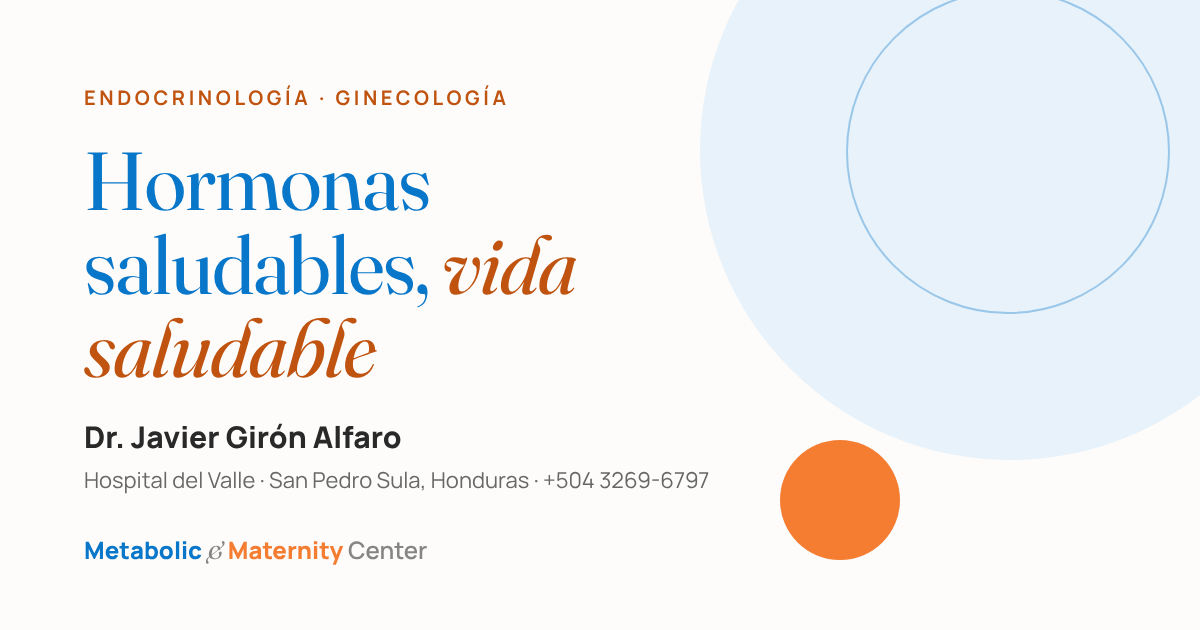
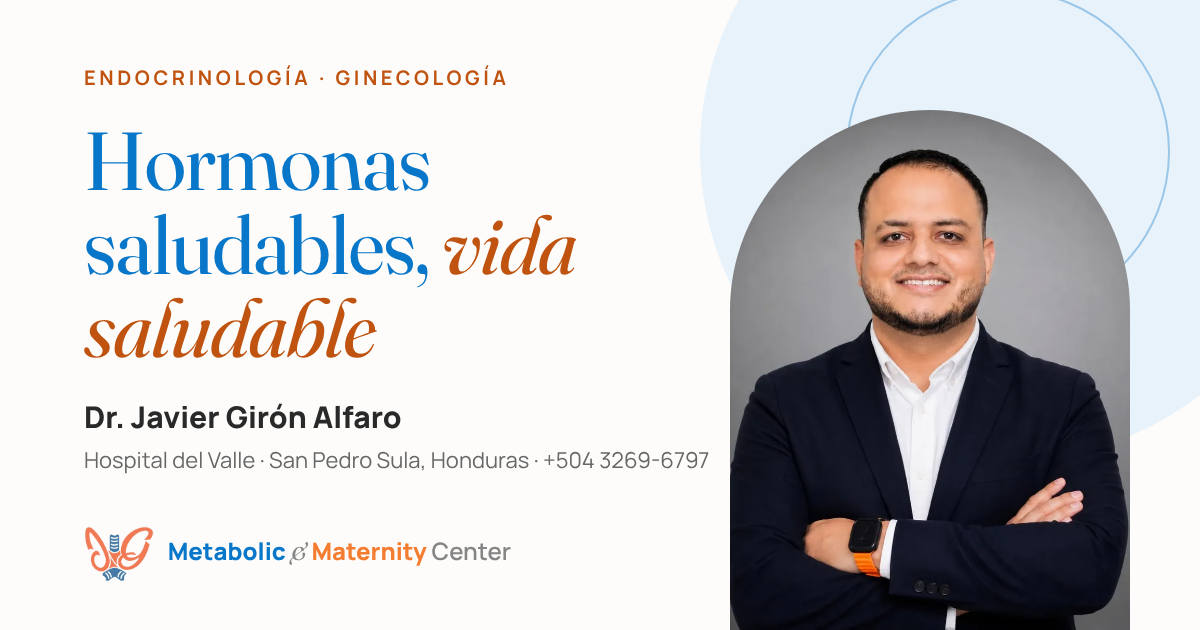
Logotipo oficial, foto del doctor y mapa de ubicación
- Símbolo oficial JG en encabezado y pie; favicons e ícono iOS a partir del símbolo
- Retrato oficial del Dr. Girón en el hero y en la sección del doctor (WebP optimizado)
- Mapa de Google incrustado y enlaces a Google Maps y Waze (Hospital del Valle)
- Imagen para redes sociales actualizada

Claude-Session: https://claude.ai/code/session_01BmCSvK3vaUP5MNE9CmVHbZ

diff --git a/src/components/Logo.tsx b/src/components/Logo.tsx
@@ -4,31 +4,22 @@ import './Logo.css';
 type Props = { variant?: 'default' | 'compact' | 'inverse' };
 
 /**
- * Identidad del centro.
- * Si existe el archivo oficial (PENDING.logo) se usa tal cual, sin alterarlo.
- * Mientras tanto se muestra un logotipo tipográfico PROVISIONAL que solo usa el nombre
- * y los colores de la marca: no reproduce ni sustituye el símbolo oficial.
+ * Identidad del centro: símbolo oficial (PENDING.logo, sin alterar ni recolorear)
+ * acompañado del nombre de la marca en texto.
  */
 export function Logo({ variant = 'default' }: Props) {
-  if (PENDING.logo) {
-    return (
-      <img
-        className={`logo-img logo-img--${variant}`}
-        src={PENDING.logo}
-        alt={`${SITE.brand} — ${SITE.tradeName}`}
-      />
-    );
-  }
-
   return (
-    <span className={`logo logo--${variant}`} data-provisional="logotipo tipográfico provisional">
-      <span className="logo__name">
-        <span className="logo__word logo__word--blue">Metabolic</span>
-        <span className="logo__amp">&amp;</span>
-        <span className="logo__word logo__word--orange">Maternity</span>
-        <span className="logo__word logo__word--grey">Center</span>
+    <span className={`logo logo--${variant}`}>
+      {PENDING.logo && <img className="logo__symbol" src={PENDING.logo} alt="" width={199} height={160} />}
+      <span className="logo__text">
+        <span className="logo__name">
+          <span className="logo__word logo__word--blue">Metabolic</span>
+          <span className="logo__amp">&amp;</span>
+          <span className="logo__word logo__word--orange">Maternity</span>
+          <span className="logo__word logo__word--grey">Center</span>
+        </span>
+        {variant !== 'compact' && <span className="logo__sub">{SITE.tradeName}</span>}
       </span>
-      {variant !== 'compact' && <span className="logo__sub">{SITE.tradeName}</span>}
     </span>
   );
 }

diff --git a/src/content/site.ts b/src/content/site.ts
@@ -36,6 +36,10 @@ export const LINKS = {
   phone: `tel:${SITE.phoneE164}`,
   email: `mailto:${SITE.email}?subject=${encodeURIComponent('Solicitud de información — Dr. Javier Girón Alfaro')}`,
   facebook: SITE.facebook,
+  googleMaps: `https://www.google.com/maps/search/?api=1&query=${encodeURIComponent('Hospital del Valle, San Pedro Sula, Honduras')}`,
+  waze: `https://waze.com/ul?q=${encodeURIComponent('Hospital del Valle San Pedro Sula')}&navigate=yes`,
+  /** Mapa incrustado (sin API key). Ubica el hospital por nombre; no se fijan coordenadas ni consultorio. */
+  mapEmbed: `https://maps.google.com/maps?q=${encodeURIComponent('Hospital del Valle, San Pedro Sula, Honduras')}&z=16&output=embed`,
 } as const;
 
 export const NAV = [
@@ -52,14 +56,14 @@ export const NAV = [
  * (o lo omite) en lugar de inventar información.
  */
 export const PENDING = {
-  /** Ruta a la fotografía oficial autorizada, p. ej. 'images/dr-giron.webp' */
-  doctorPhoto: null as string | null,
+  /** Fotografía oficial autorizada del doctor. */
+  doctorPhoto: 'images/dr-javier-giron-1000.webp' as string | null,
   /** Biografía profesional confirmada (párrafos). */
   biography: null as string[] | null,
   /** Credenciales verificadas (formación, colegiación, membresías). */
   credentials: null as string[] | null,
-  /** Ruta al logotipo oficial, p. ej. 'brand/logo.svg'. Si es null se usa el logotipo tipográfico provisional. */
-  logo: null as string | null,
+  /** Símbolo oficial (monograma JG). Original sin alterar en public/brand/logo-symbol.png. */
+  logo: 'brand/logo-symbol-160.png' as string | null,
   /** URL de la política de privacidad revisada. Si es null, el enlace no se muestra. */
   privacyPolicyUrl: null as string | null,
 };

diff --git a/src/content/images.ts b/src/content/images.ts
@@ -1,7 +1,8 @@
 /**
  * Fotografías del sitio.
  *
- * Provisional: fotografías de Unsplash (licencia Unsplash, uso comercial permitido) servidas desde su CDN.
+ * hero: fotografía oficial del Dr. Girón proporcionada por el cliente (public/images).
+ * Resto, provisional: fotografías de Unsplash (licencia Unsplash, uso comercial permitido) servidas desde su CDN.
  * Son imágenes genéricas de entornos clínicos y no representan al consultorio, sus instalaciones
  * ni a su personal. Para producción se recomienda descargarlas (o sustituirlas por fotografías propias
  * autorizadas), guardarlas en /public/images en formato .webp y cambiar `src` por la ruta local,
@@ -13,6 +14,8 @@
 
 export type PhotoAsset = {
   src: string;
+  /** srcset para imágenes locales, p. ej. 'images/a-640.webp 640w, images/a-1000.webp 1000w' */
+  srcSet?: string;
   alt: string;
   /** Punto focal para object-position */
   focus?: string;
@@ -22,9 +25,10 @@ const unsplash = (id: string) => `https://images.unsplash.com/${id}?auto=format&
 
 export const PHOTOS = {
   hero: {
-    src: unsplash('photo-1631217868264-e5b90bb7e133'),
-    alt: 'Consultorio médico moderno y luminoso (fotografía ilustrativa)',
-    focus: '50% 50%',
+    src: 'images/dr-javier-giron-1000.webp',
+    srcSet: 'images/dr-javier-giron-640.webp 640w, images/dr-javier-giron-1000.webp 1000w',
+    alt: 'Dr. Javier Girón Alfaro, endocrinólogo, con saco azul marino y camisa blanca',
+    focus: '50% 30%',
   },
   intro: {
     src: unsplash('photo-1551601651-2a8555f1a136'),

diff --git a/src/components/Logo.css b/src/components/Logo.css
@@ -1,8 +1,20 @@
 .logo {
+  display: inline-flex;
+  align-items: center;
+  gap: 0.7rem;
+  text-decoration: none;
+}
+.logo__symbol {
+  height: 46px;
+  width: auto;
+  flex: none;
+  /* el archivo trae fondo blanco: se integra sin halo sobre fondos blancos */
+  mix-blend-mode: multiply;
+}
+.logo__text {
   display: inline-grid;
   gap: 0.15rem;
   line-height: 1.05;
-  text-decoration: none;
 }
 .logo__name {
   display: inline-flex;
@@ -37,10 +49,10 @@
 .logo--inverse .logo__amp,
 .logo--inverse .logo__sub { color: rgba(255, 255, 255, 0.72); }
 
-.logo-img { height: 48px; width: auto; }
-.logo-img--compact { height: 40px; }
 
-@media (max-width: 380px) {
-  .logo__name { font-size: 1rem; }
-  .logo__sub { font-size: 0.6rem; letter-spacing: 0.1em; }
+@media (max-width: 480px) {
+  .logo { gap: 0.45rem; }
+  .logo__symbol { height: 38px; }
+  .logo__name { font-size: 0.94rem; gap: 0.22em; }
+  .logo__sub { font-size: 0.54rem; letter-spacing: 0.06em; }
 }

diff --git a/src/components/Contact.tsx b/src/components/Contact.tsx
@@ -55,6 +55,24 @@ export function Contact() {
               </li>
             </ul>
           </address>
+
+          <div className="contact__map reveal">
+            <iframe
+              src={LINKS.mapEmbed}
+              title={`Mapa: ${SITE.location.place}, ${SITE.location.city}`}
+              loading="lazy"
+              referrerPolicy="no-referrer-when-downgrade"
+              allowFullScreen
+            />
+            <div className="contact__map-actions">
+              <a className="btn btn--ghost btn--sm" href={LINKS.googleMaps} target="_blank" rel="noopener noreferrer">
+                <MapPin /> Abrir en Google Maps
+              </a>
+              <a className="btn btn--ghost btn--sm" href={LINKS.waze} target="_blank" rel="noopener noreferrer">
+                <MapPin /> Ir con Waze
+              </a>
+            </div>
+          </div>
         </div>
 
         <div className="contact__side">

diff --git a/src/components/Faq.tsx b/src/components/Faq.tsx
@@ -25,8 +25,16 @@ const QUESTIONS: { q: string; a: ReactNode }[] = [
     q: '¿Dónde se encuentra el consultorio?',
     a: (
       <p>
-        El consultorio se encuentra en el {SITE.location.place}, en {SITE.location.city}, {SITE.location.country}. Para
-        recibir indicaciones precisas sobre cómo llegar, comunícate por WhatsApp o por teléfono.
+        El consultorio se encuentra en el {SITE.location.place}, en {SITE.location.city}, {SITE.location.country}. Puedes
+        abrir la ubicación en{' '}
+        <a href={LINKS.googleMaps} target="_blank" rel="noopener noreferrer">
+          Google Maps
+        </a>{' '}
+        o{' '}
+        <a href={LINKS.waze} target="_blank" rel="noopener noreferrer">
+          Waze
+        </a>
+        . Para indicaciones sobre cómo llegar al consultorio dentro del hospital, comunícate por WhatsApp o por teléfono.
       </p>
     ),
   },

diff --git a/src/components/Contact.css b/src/components/Contact.css
@@ -59,6 +59,30 @@
 }
 .contact__list a:hover { text-decoration: underline; text-underline-offset: 3px; }
 
+.contact__map {
+  border-radius: var(--radius-lg);
+  overflow: hidden;
+  border: 1px solid var(--color-border);
+  background: #fff;
+  box-shadow: var(--shadow-sm);
+}
+.contact__map iframe {
+  display: block;
+  width: 100%;
+  aspect-ratio: 16 / 10;
+  border: 0;
+  background: var(--color-surface);
+}
+.contact__map-actions {
+  display: flex;
+  flex-wrap: wrap;
+  gap: 0.6rem;
+  padding: 1rem;
+  border-top: 1px solid var(--color-border);
+}
+.contact__map-actions .btn { flex: 1 1 auto; }
+.contact__map-actions svg { width: 18px; height: 18px; }
+
 .contact__side { position: relative; }
 .contact__photo { aspect-ratio: 16 / 11; border-radius: var(--radius-lg) var(--radius-lg) 0 0; }
 .contact__cta {

diff --git a/src/components/Doctor.tsx b/src/components/Doctor.tsx
@@ -11,7 +11,11 @@ export function Doctor() {
             <img
               className="doctor__photo"
               src={PENDING.doctorPhoto}
-              alt={`Fotografía del ${SITE.doctor}`}
+              srcSet="images/dr-javier-giron-640.webp 640w, images/dr-javier-giron-1000.webp 1000w"
+              sizes="(max-width: 900px) 360px, 40vw"
+              width={1000}
+              height={1000}
+              alt={`Retrato del ${SITE.doctor}`}
               loading="lazy"
               decoding="async"
             />

diff --git a/index.html b/index.html
@@ -10,7 +10,8 @@
     />
     <meta name="theme-color" content="#0877C9" />
     <meta name="format-detection" content="telephone=no" />
-    <link rel="icon" href="./favicon.svg" type="image/svg+xml" />
+    <link rel="icon" href="./favicon-32.png" type="image/png" sizes="32x32" />
+    <link rel="icon" href="./favicon-48.png" type="image/png" sizes="48x48" />
     <link rel="apple-touch-icon" href="./apple-touch-icon.png" />
 
     <!-- Open Graph / redes sociales -->

diff --git a/src/components/Photo.tsx b/src/components/Photo.tsx
@@ -27,7 +27,7 @@ export function Photo({
 
   const srcSet = isUnsplash(photo.src)
     ? widths.map((w) => `${photo.src}&w=${w} ${w}w`).join(', ')
-    : undefined;
+    : photo.srcSet;
   const src = isUnsplash(photo.src) ? `${photo.src}&w=${widths[1] ?? widths[0]}` : photo.src;
 
   return (

diff --git a/src/components/Doctor.css b/src/components/Doctor.css
@@ -17,6 +17,7 @@
   border-radius: 999px 999px var(--radius-lg) var(--radius-lg);
   object-fit: cover;
 }
+.doctor__photo { object-position: 50% 20%; background: var(--color-surface); }
 .doctor__placeholder {
   display: grid;
   place-content: center;

diff --git a/README.md b/README.md
@@ -36,18 +36,18 @@ Comando de build `npm run build`, carpeta de salida `dist`. También se puede su
 | Título SEO, descripción, Open Graph, datos estructurados | `index.html` |
 
 ### Contenido provisional (identificado en pantalla)
-- **Logotipo:** se muestra un logotipo tipográfico provisional con el nombre y los colores de la marca.
-  Para usar el oficial, copia el archivo a `public/brand/` (SVG o PNG con fondo transparente) y define
-  `PENDING.logo = 'brand/logo.svg'`. El archivo se muestra tal cual, sin alterarlo.
-- **Favicon** (`public/favicon.svg`, `public/apple-touch-icon.png`): monograma provisional; sustituir por el símbolo oficial.
-- **Fotografía, biografía y credenciales del doctor:** aparecen como espacios reservados con la etiqueta
-  "pendiente". Al completar `PENDING.doctorPhoto`, `PENDING.biography` y `PENDING.credentials` se muestran automáticamente.
+- **Logotipo:** símbolo oficial (monograma JG) en `public/brand/` (original y versión de 160 px de alto, solo recortado
+  el margen blanco, sin alterar colores ni proporciones), acompañado del nombre de la marca en texto.
+  Favicons e ícono de iOS generados a partir del mismo símbolo. Si se dispone de una versión SVG o con fondo transparente, sustituirla.
+- **Fotografía del doctor:** retrato oficial en `public/images/dr-javier-giron-*.webp` (hero y sección del doctor).
+- **Biografía y credenciales del doctor:** aparecen como espacios reservados con la etiqueta "pendiente".
+  Al completar `PENDING.biography` y `PENDING.credentials` se muestran automáticamente.
 - **Fotografías generales:** imágenes ilustrativas de Unsplash (licencia Unsplash) cargadas desde su CDN.
   No representan al consultorio ni a su personal. Recomendado: descargarlas o sustituirlas por fotos propias
   autorizadas en `public/images/` (formato WebP, ~1400 px de ancho) y actualizar `src/content/images.ts`.
   Si una imagen no carga, se muestra una composición gráfica con los colores de la marca.
 - **Política de privacidad:** el enlace del pie solo aparece cuando se define `PENDING.privacyPolicyUrl`.
-- **Mapa:** no se incluye hasta confirmar la dirección exacta del consultorio.
+- **Mapa:** Google Maps incrustado y enlaces a Google Maps / Waze ubican el Hospital del Valle por nombre (`LINKS` en `src/content/site.ts`). No se indica piso ni número de consultorio.
 - **Dominio:** al tenerlo, añade `<link rel="canonical">`, `og:url` y convierte `og:image` en URL absoluta en `index.html`.
 
 ## Reglas de contenido
